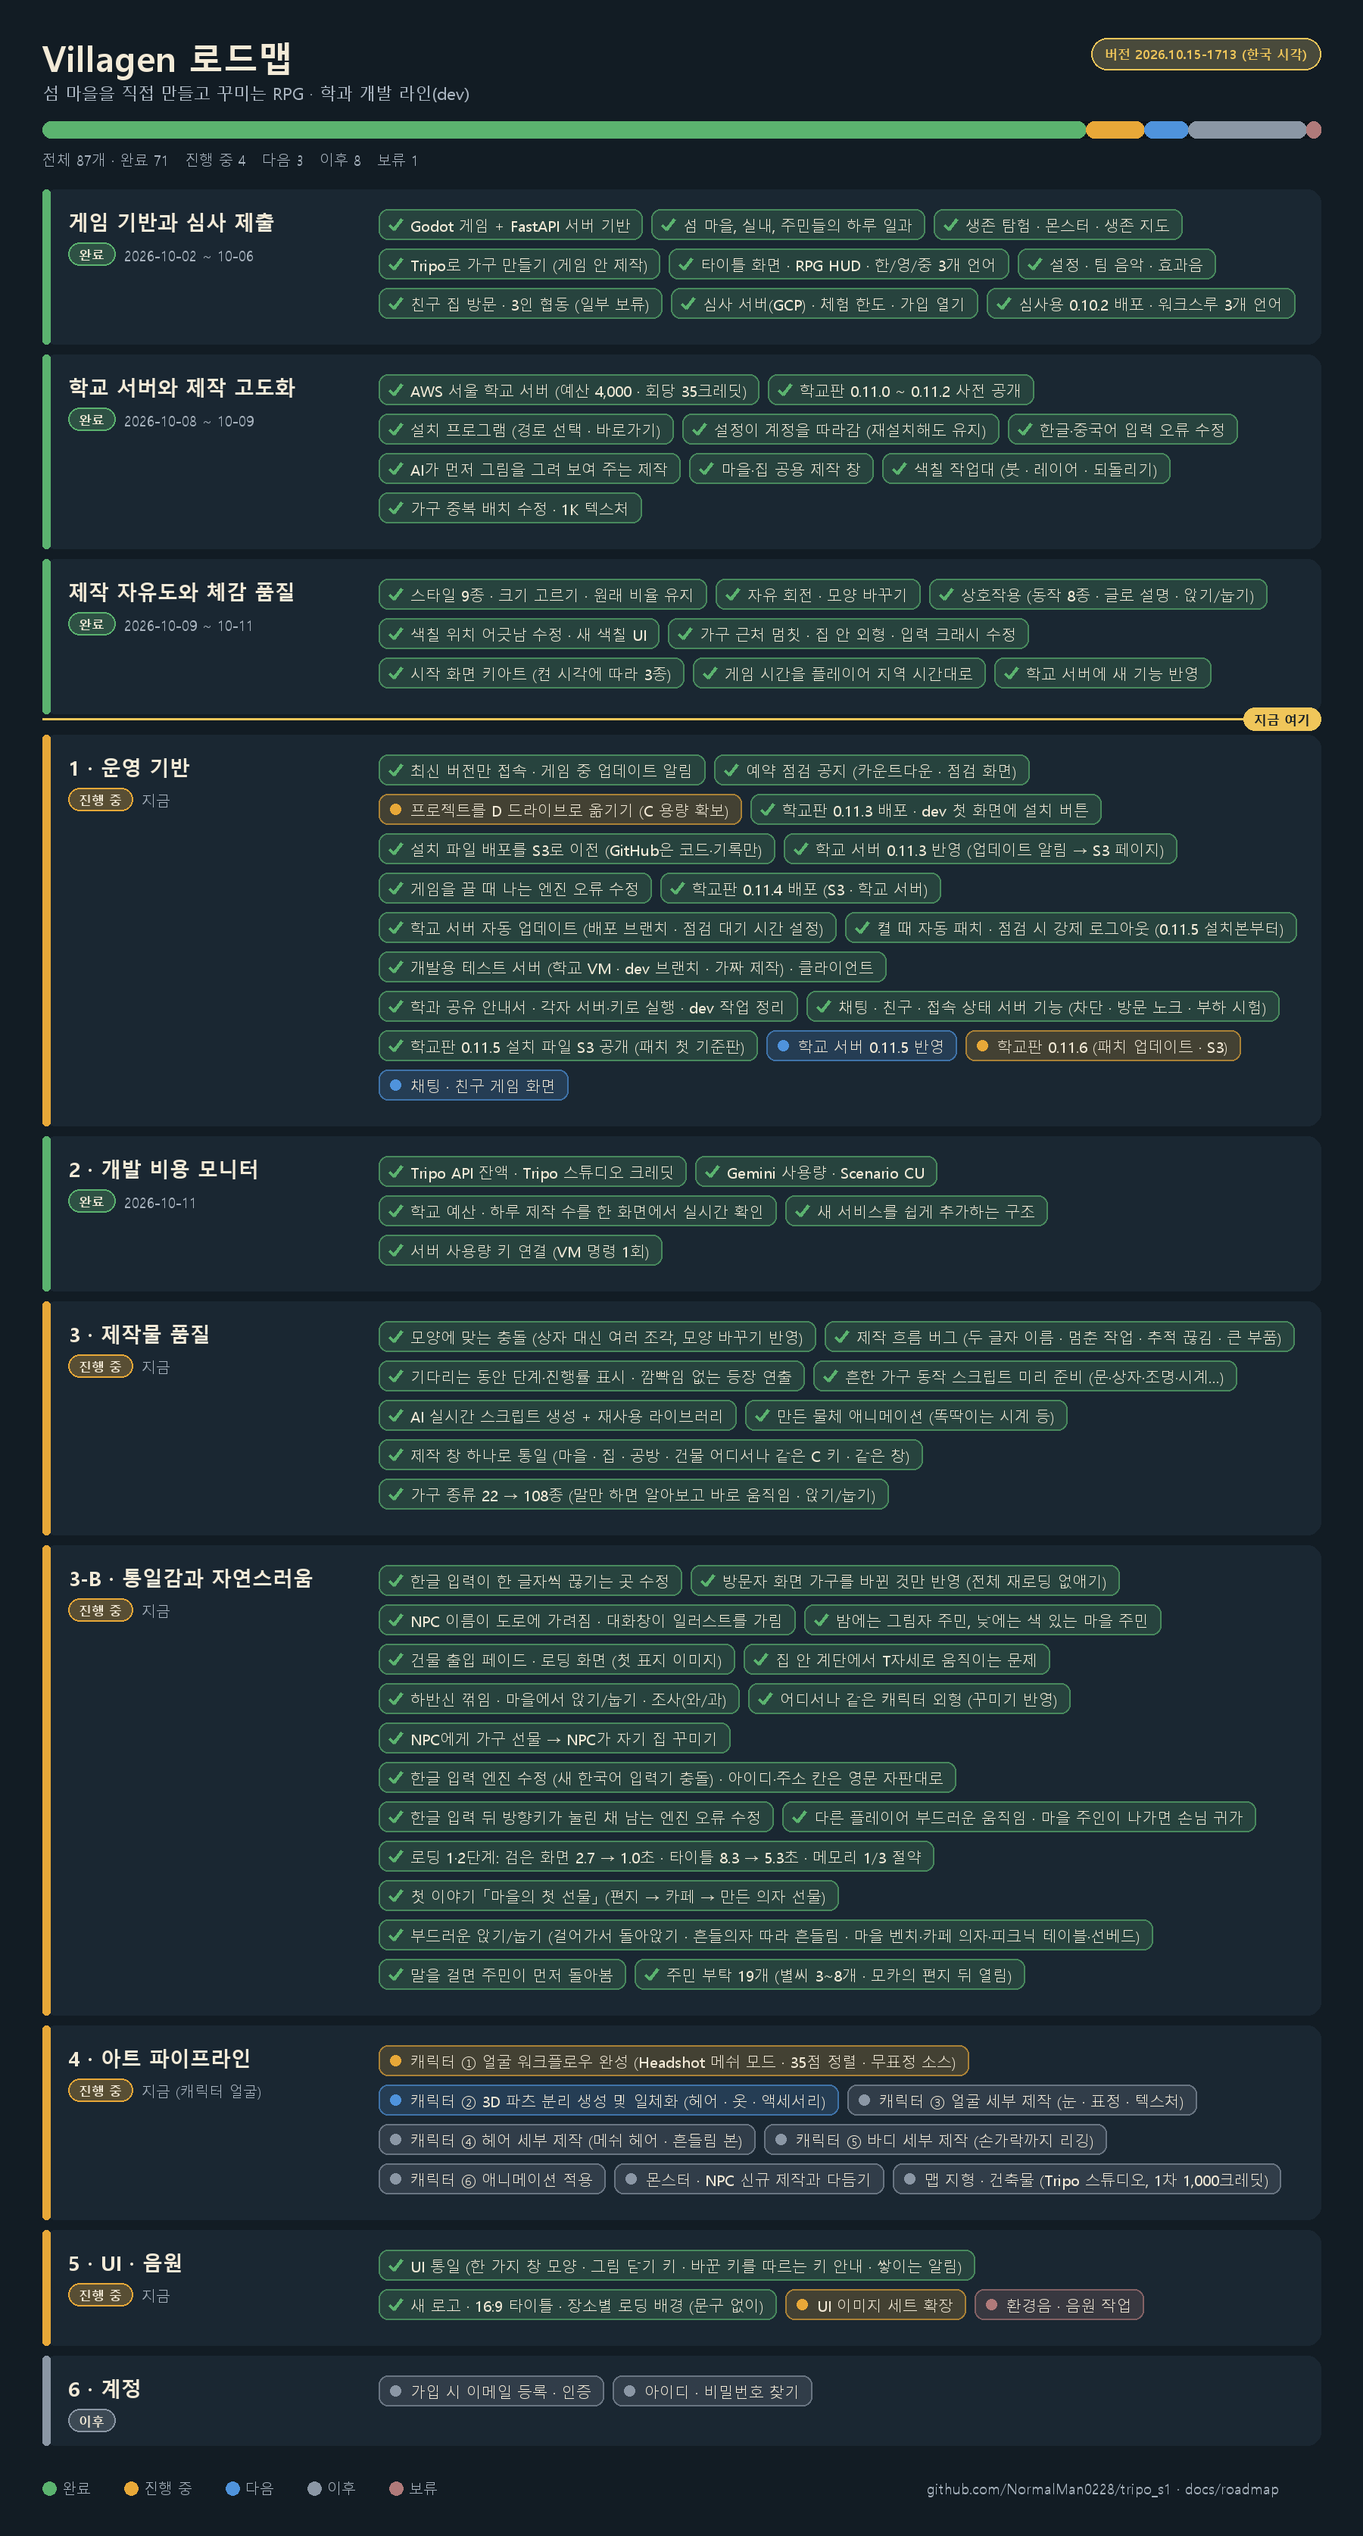
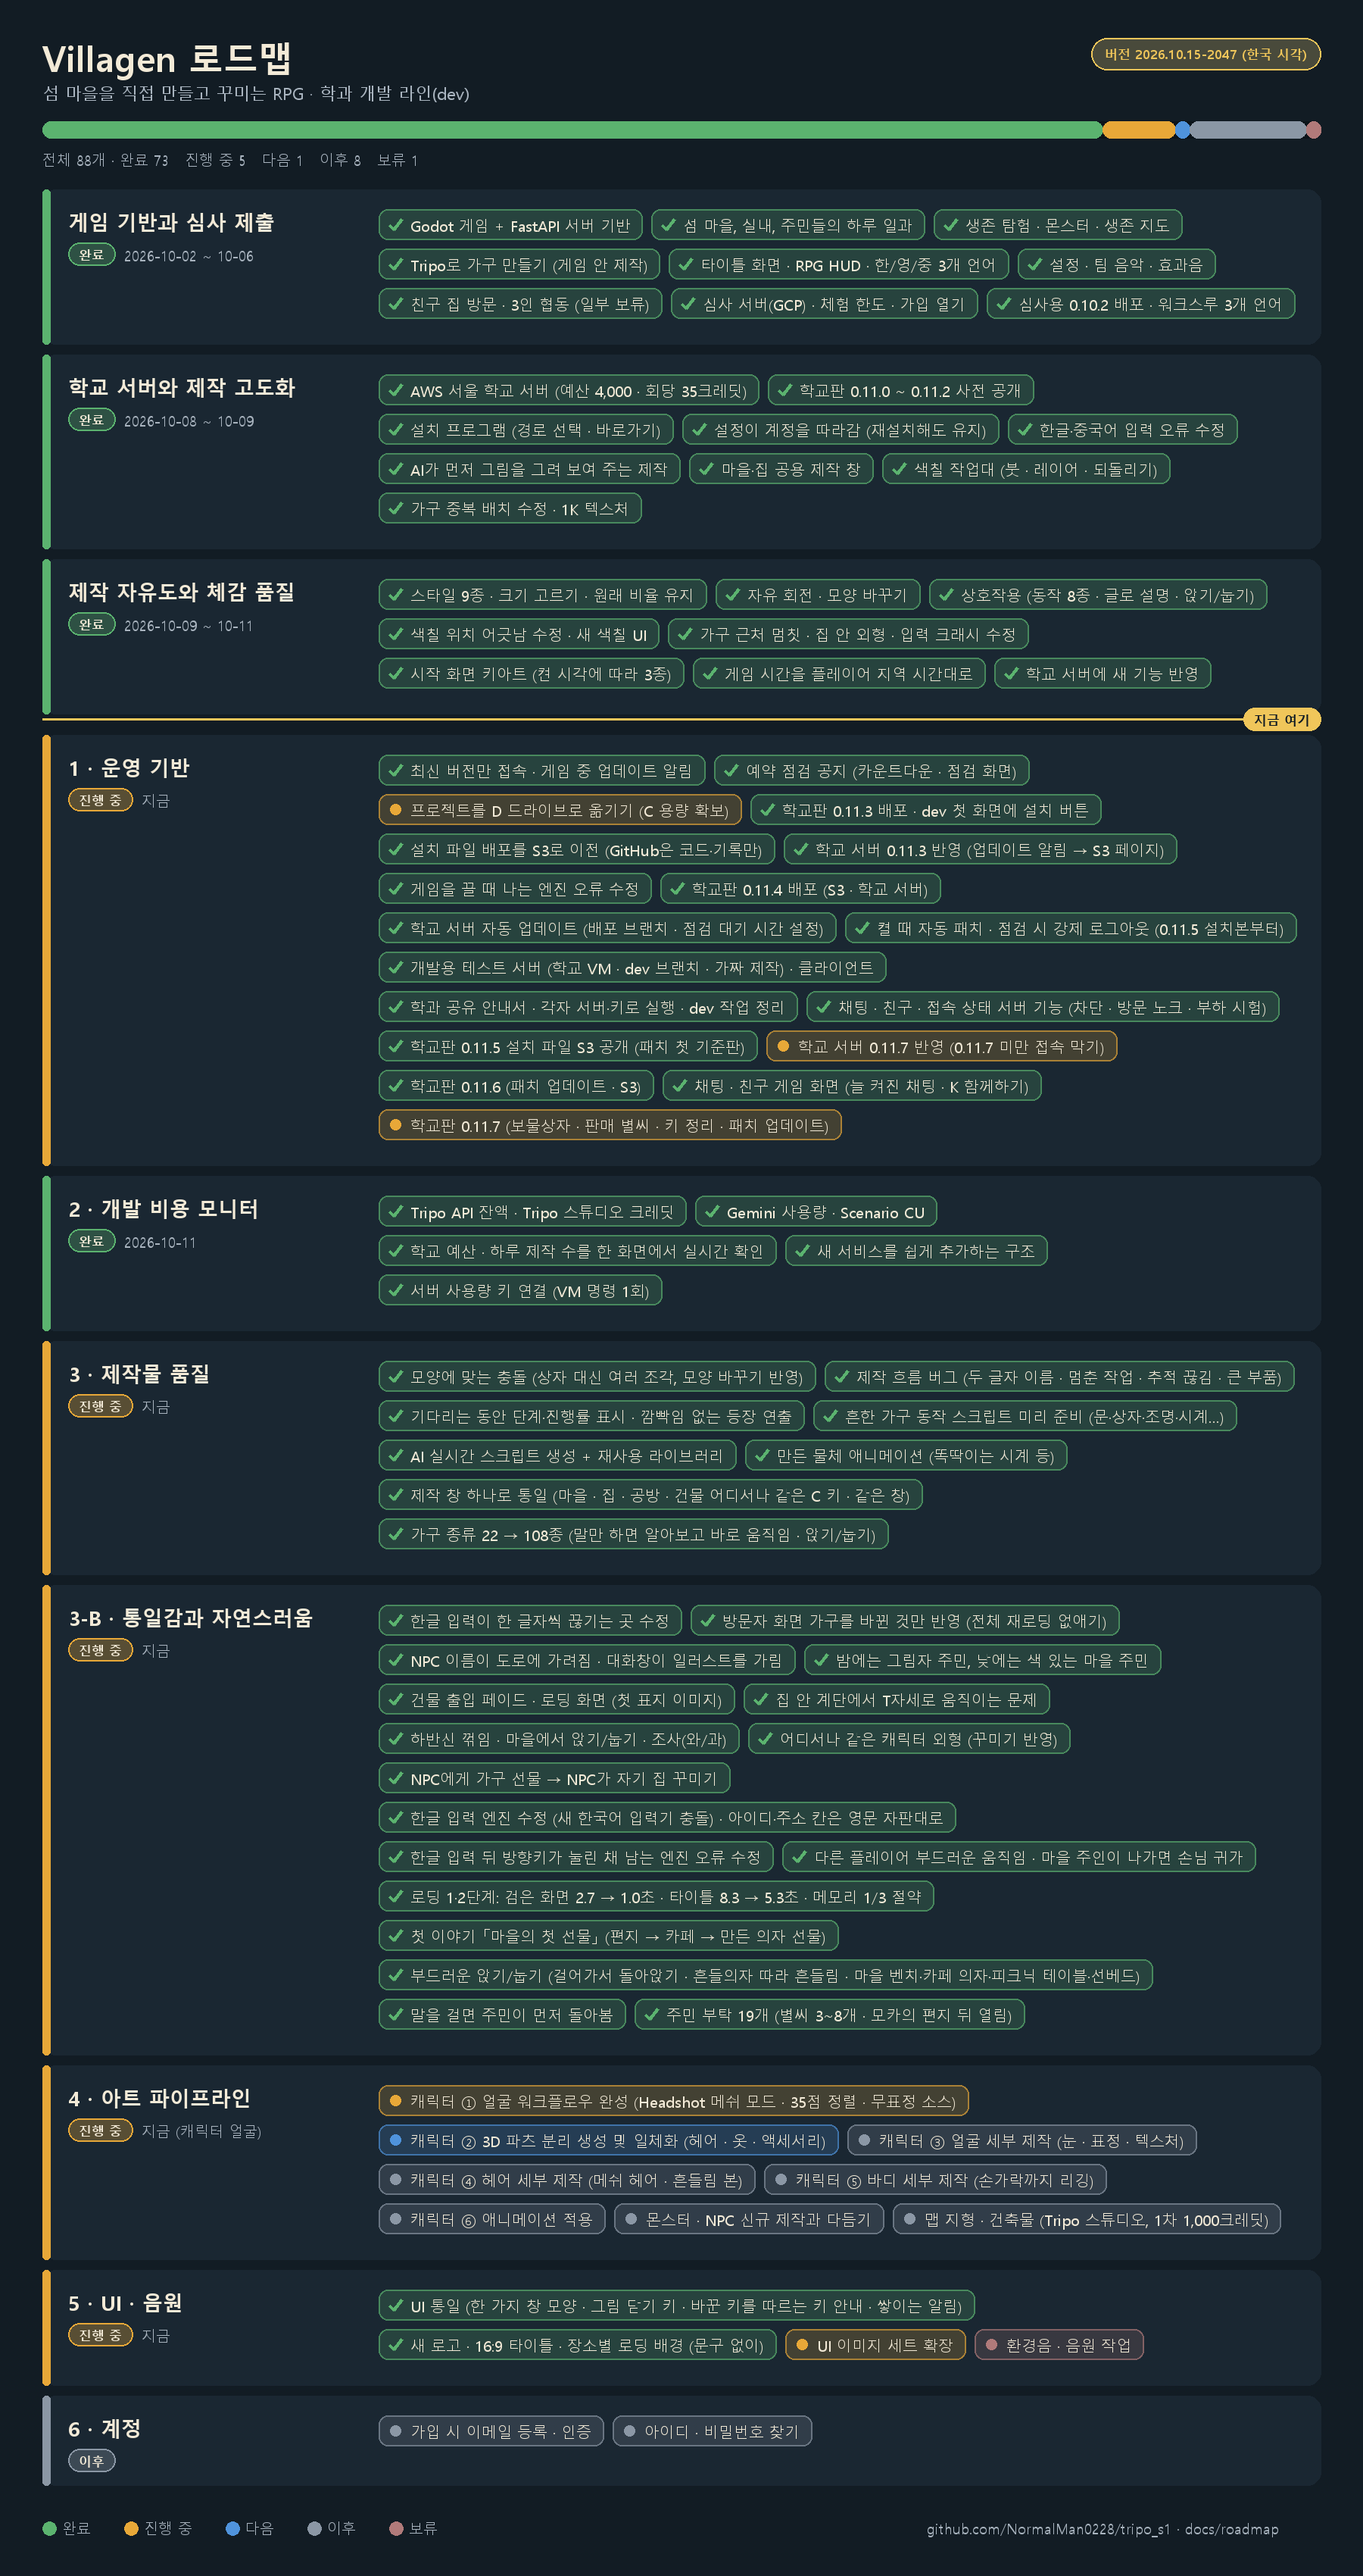
School 0.11.7: version, player notes (chat, K drawer, keys, chests, starseed selling, early requests), roadmap

diff --git a/docs/roadmap/ROADMAP_KO.md b/docs/roadmap/ROADMAP_KO.md
@@ -1,8 +1,8 @@
 # Villagen 로드맵
 
-**버전 2026.10.15-1713** (한국 시각) · 섬 마을을 직접 만들고 꾸미는 RPG · 학과 개발 라인(dev)
+**버전 2026.10.15-2047** (한국 시각) · 섬 마을을 직접 만들고 꾸미는 RPG · 학과 개발 라인(dev)
 
-> 그림으로 보기: [VISUAL_KO.md](VISUAL_KO.md) · 전체 87개 중 완료 71 · 진행 중 4 · 다음 3 · 이후 8 · 보류 1
+> 그림으로 보기: [VISUAL_KO.md](VISUAL_KO.md) · 전체 88개 중 완료 73 · 진행 중 5 · 다음 1 · 이후 8 · 보류 1
 
 - [학교 서버 운영 안내](../SCHOOL_SERVER_KO.txt)
 - [제작 품질표](../CRAFT_QUALITY_KO.md)
@@ -58,9 +58,10 @@
 - [x] 학과 공유 안내서 · 각자 서버·키로 실행 · dev 작업 정리 (10-14)
 - [x] 채팅 · 친구 · 접속 상태 서버 기능 (차단 · 방문 노크 · 부하 시험) (10-15)
 - [x] 학교판 0.11.5 설치 파일 S3 공개 (패치 첫 기준판) (10-15)
-- [ ] 학교 서버 0.11.5 반영 · *다음*
-- [ ] 학교판 0.11.6 (패치 업데이트 · S3) · *진행 중*
-- [ ] 채팅 · 친구 게임 화면 · *다음*
+- [ ] 학교 서버 0.11.7 반영 (0.11.7 미만 접속 막기) · *진행 중*
+- [x] 학교판 0.11.6 (패치 업데이트 · S3) (10-15)
+- [x] 채팅 · 친구 게임 화면 (늘 켜진 채팅 · K 함께하기) (10-15)
+- [ ] 학교판 0.11.7 (보물상자 · 판매 별씨 · 키 정리 · 패치 업데이트) · *진행 중*
 
 ## 2 · 개발 비용 모니터  `완료` · 2026-10-11
 
@@ -128,6 +129,7 @@
 
 | 버전 (한국 시각) | 바뀐 점 |
 |---|---|
+| 2026.10.15-2047 | 0.11.7 준비: 늘 켜진 채팅, K 함께하기, 키·창 통일, 보물상자 11개, 판매 별씨, 부탁 일찍 열림, 사다리, 길막·안내 반복 고침 |
 | 2026.10.15-1713 | 0.11.6 준비: UI 통일, 새 로고·타이틀·로딩 배경, 부드러운 앉기/눕기, 주민 부탁 19개, 배치·--no-patch 고침 |
 | 2026.10.15-1338 | 0.11.5 빌드: 한글 입력·눌린 키 엔진 수정, 부드러운 멀티, 로딩 단축, 제작 창 통일, 108종, 첫 이야기, 자동 패치 시작, 채팅·친구 서버, 개발 서버 |
 | 2026.10.14-1422 | 학과 공유 안내서와 dev 작업 정리 문서 추가 |

diff --git a/docs/roadmap/VISUAL_KO.md b/docs/roadmap/VISUAL_KO.md
@@ -1,7 +1,7 @@
 # Villagen 로드맵 (그림)
 
-**버전 2026.10.15-1713** (한국 시각) · 글로 보기: [ROADMAP_KO.md](ROADMAP_KO.md)
+**버전 2026.10.15-2047** (한국 시각) · 글로 보기: [ROADMAP_KO.md](ROADMAP_KO.md)
 
-![Villagen 로드맵 2026.10.15-1713](roadmap.png)
+![Villagen 로드맵 2026.10.15-2047](roadmap.png)
 
 초록 완료 · 주황 진행 중 · 파랑 다음 · 회색 이후 · 갈색 보류

diff --git a/docs/roadmap/README.md b/docs/roadmap/README.md
@@ -1,8 +1,8 @@
 # Villagen 로드맵
 
-**버전 2026.10.15-1713** (한국 시각)
+**버전 2026.10.15-2047** (한국 시각)
 
 - [그림으로 보기](VISUAL_KO.md)
-- [글로 보기](ROADMAP_KO.md) — 완료 71 · 진행 중 4 · 다음 3 · 이후 8
+- [글로 보기](ROADMAP_KO.md) — 완료 73 · 진행 중 5 · 다음 1 · 이후 8
 
 ![로드맵](roadmap.png)
